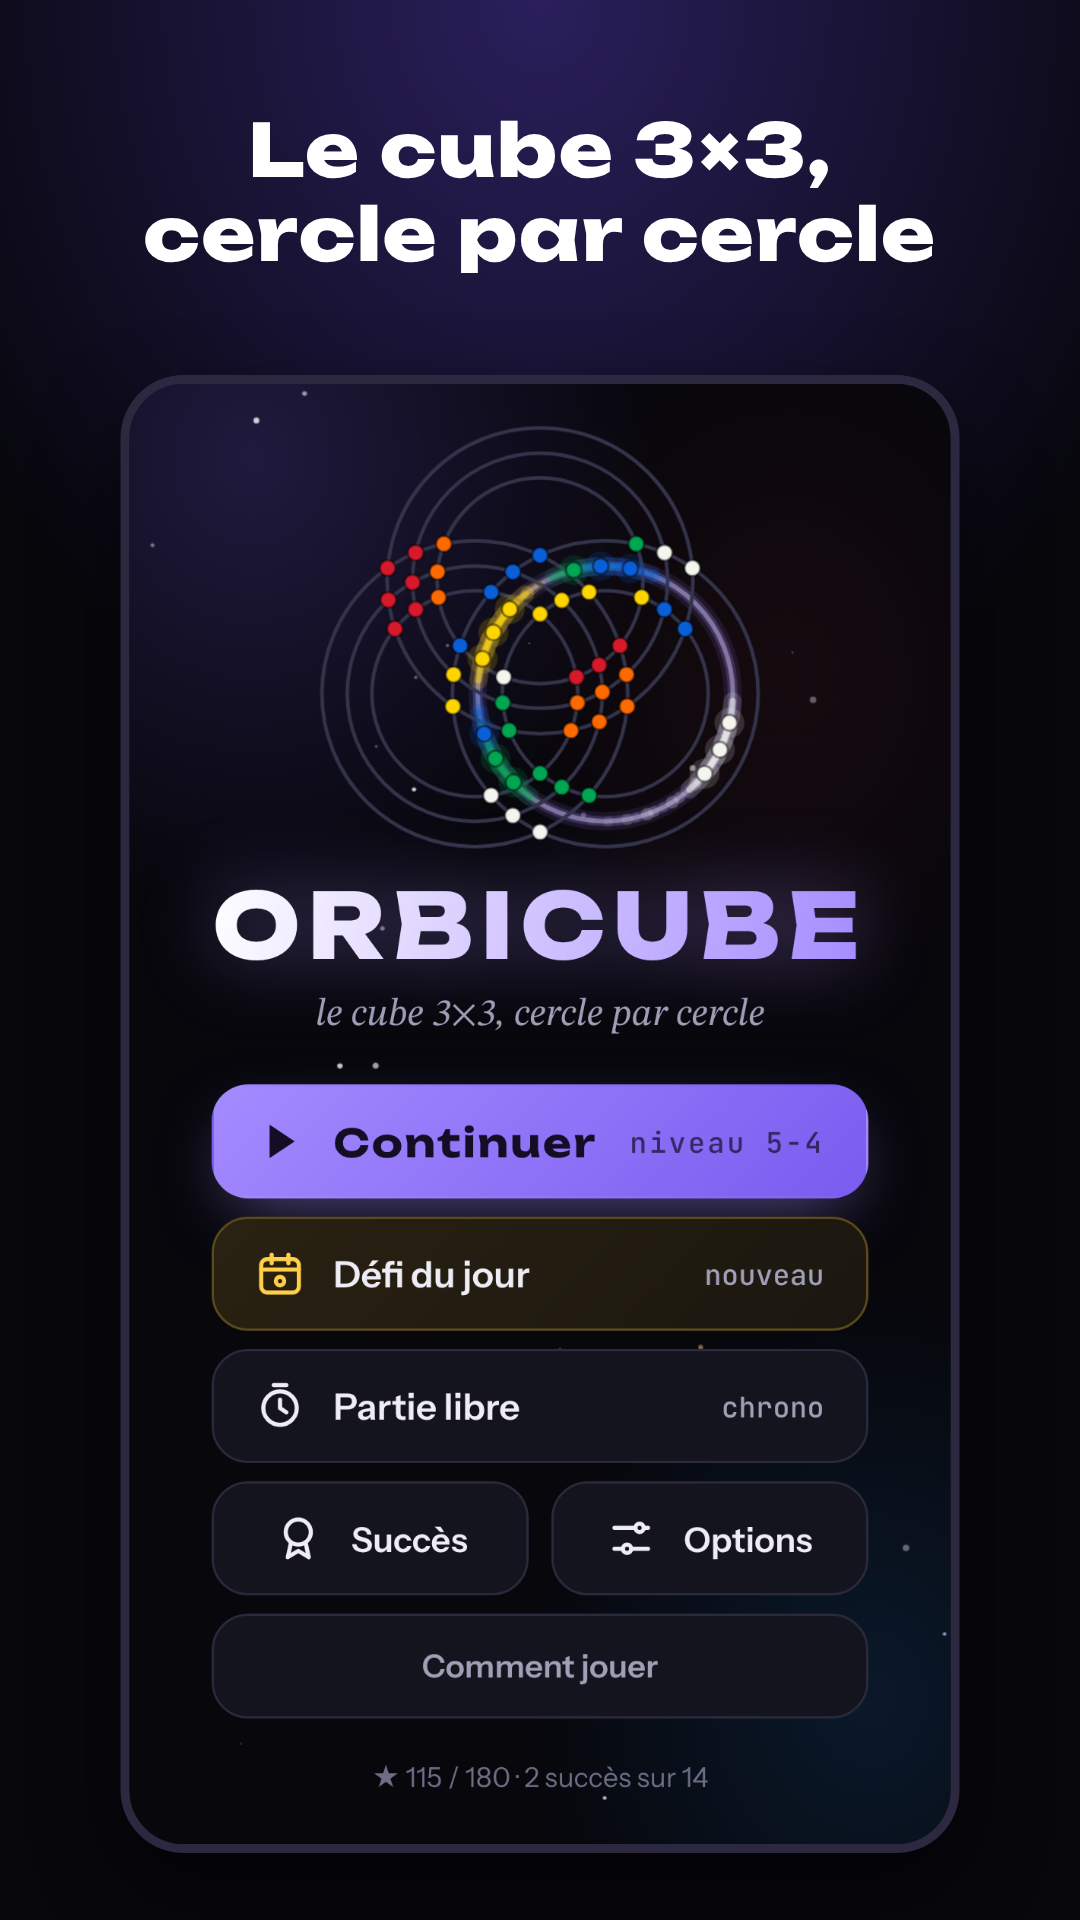
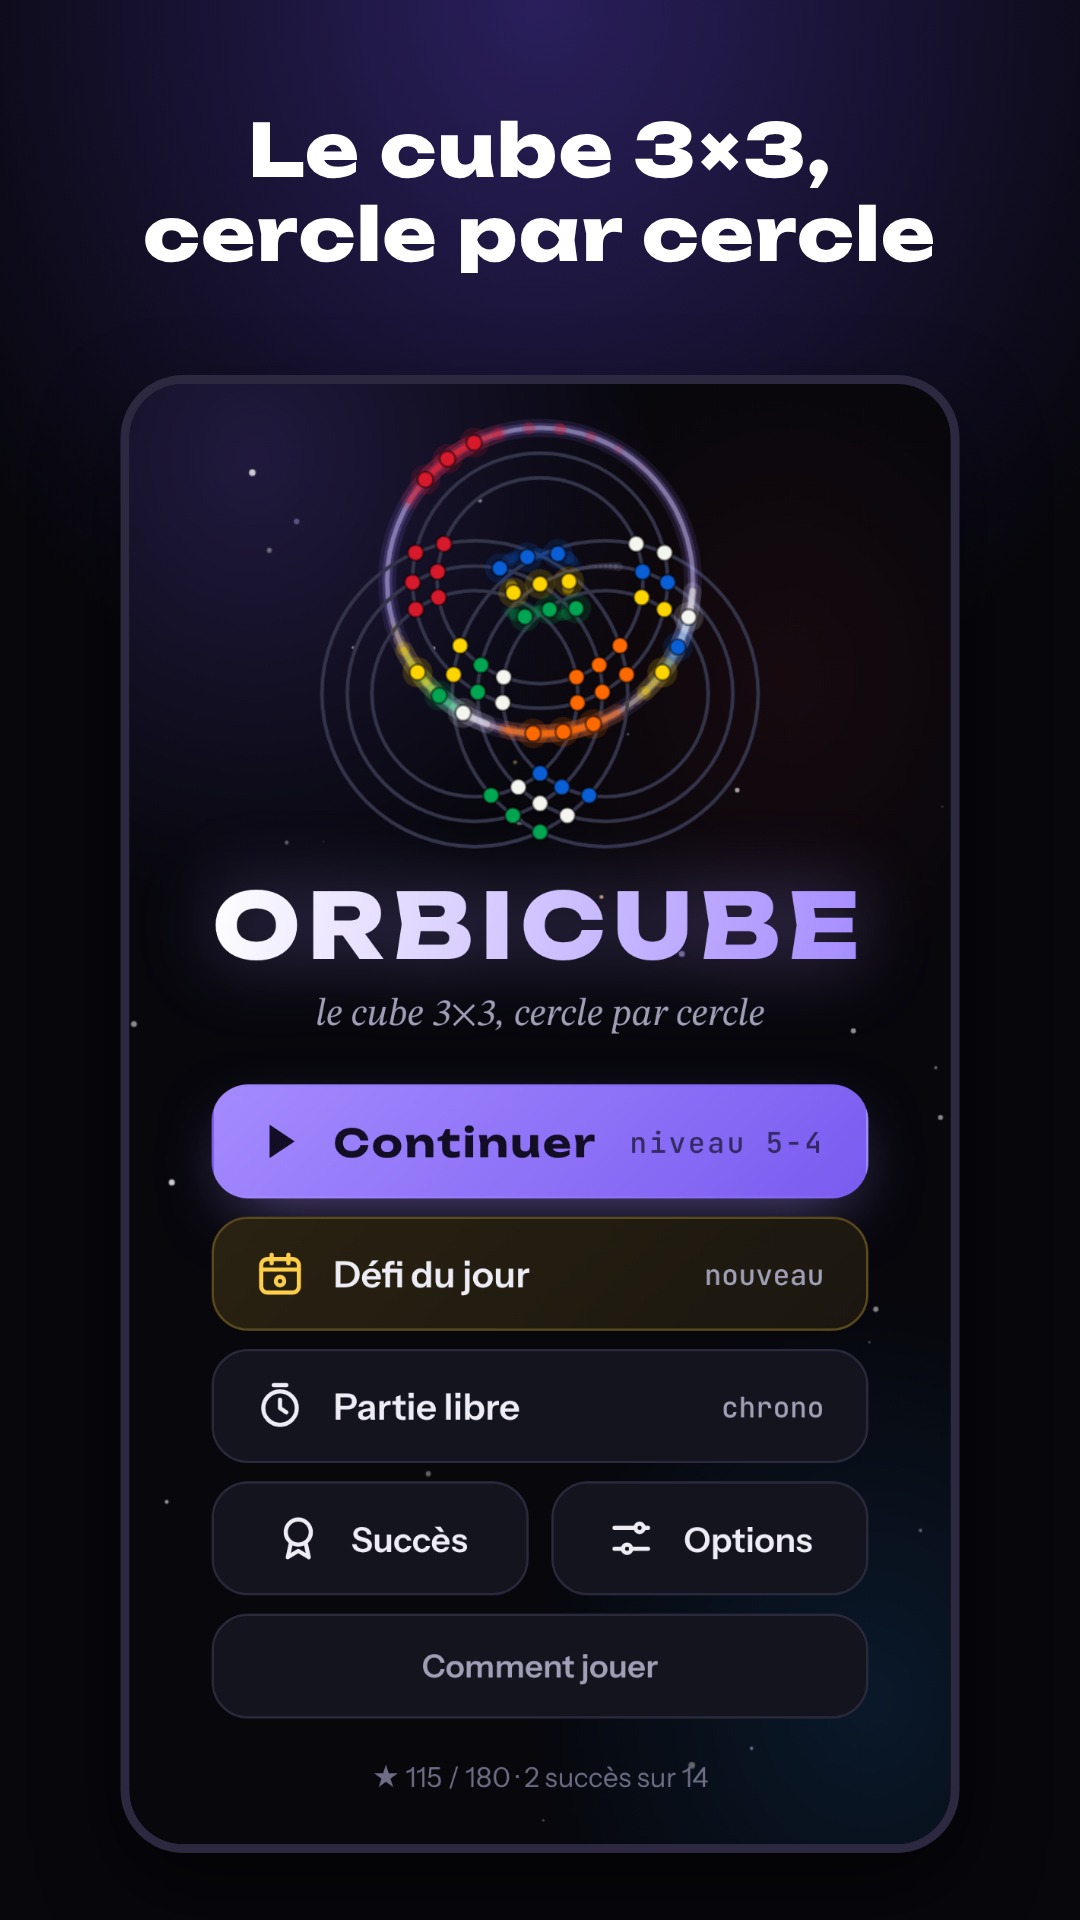
Cube en perspective : 120 px au plus au lieu de 150
Claude-Session: https://claude.ai/code/session_0149xvqQAFsWoXJkF64USQEK

Changed region(s): [[0.3361, 0.25, 0.7028, 0.4375], [0.3667, 0.2188, 0.6111, 0.2812]]

diff --git a/orbicube/www/index.html b/orbicube/www/index.html
@@ -783,11 +783,11 @@ function dessinerMini(){if(!PROG.options.cube)return;var w=mini.clientWidth||84,
 JeuP.apres=function(){dessinerMini();if(J&&J.t0&&!J.fini&&!J.enPause)document.getElementById("jTemps").textContent=fmt(performance.now()-J.t0);};
 function fmt(ms){var s=Math.floor(ms/1000);return Math.floor(s/60)+":"+String(s%60).padStart(2,"0");}
 // Le plateau prend toute la largeur ; le cube, au centre de la ligne des coups et du temps, prend la
-// hauteur qui reste (entre 64 et 150 px). Sur un écran court, il rapetisse avant que le plateau ne le fasse.
+// hauteur qui reste (entre 64 et 120 px). Sur un écran court, il rapetisse avant que le plateau ne le fasse.
 function redimJeu(){var jeu=document.getElementById("jeu"),z=document.getElementById("zonePlateau");if(!jeu.clientWidth)return;
   if(PROG.options.cube){var paysage=getComputedStyle(jeu).display==="grid",
       autres=jeu.querySelector(".jtete").offsetHeight+jeu.querySelector(".jbas").offsetHeight+30,
-      c=paysage?96:Math.max(64,Math.min(150,jeu.clientHeight-autres-Math.min(jeu.clientWidth,560)-12));
+      c=paysage?96:Math.max(64,Math.min(120,jeu.clientHeight-autres-Math.min(jeu.clientWidth,560)-12));
     jeu.style.setProperty("--cube",Math.round(c)+"px");}
   var r=z.getBoundingClientRect();if(!r.width)return;JeuP.dimension(Math.min(r.width,r.height-8));dessinerMini();}
 function redimAide(){var w=document.getElementById("aideCanvas").getBoundingClientRect().width;if(w)AideP.dimension(w);}

diff --git a/orbicube/www/sw.js b/orbicube/www/sw.js
@@ -1,6 +1,6 @@
 // Version web (PWA) : tout le jeu est mis en cache pour se jouer hors ligne.
 // Incrémenter V à chaque publication, sinon les joueurs gardent l'ancienne version.
-var V = "orbicube-v10";
+var V = "orbicube-v11";
 var FICHIERS = ["./", "index.html", "config.js", "natif.js", "langues.js", "manifest.webmanifest", "confidentialite.html",
   "icones/favicon.png", "icones/apple-touch-icon.png", "icones/icon-192.png", "icones/icon-512.png", "icones/icon-maskable-512.png",
   "polices/polices.css", "polices/Unbounded-normal-700.woff2", "polices/Unbounded-normal-800.woff2",

diff --git a/CLAUDE.md b/CLAUDE.md
@@ -54,7 +54,7 @@ contresens). Un contrôle neuf s'éprouve de la même façon avant d'être cru.
   `outils/icones.py` et `outils/tester.js` (geste le long de U) : les changer aux trois endroits.
 - **Le cube en perspective est au centre de la ligne des coups et du temps** (le client, le 11/10/2026,
   « l'endroit optimal ») : le plateau prend d'abord toute la largeur, et `redimJeu()` donne au cube la
-  hauteur qui reste (`--cube`, de 64 à 150 px). Pas en filigrane : des couleurs derrière les pastilles
+  hauteur qui reste (`--cube`, de 64 à 120 px). Pas en filigrane : des couleurs derrière les pastilles
   se confondraient avec elles.
 - Les niveaux de campagne sont tirés d'une graine fixe (`orbicube-<monde>-<niveau>`) : changer
   `genererMelange()` change tous les niveaux des joueurs. Ne le faire qu'avec une nouvelle graine.
